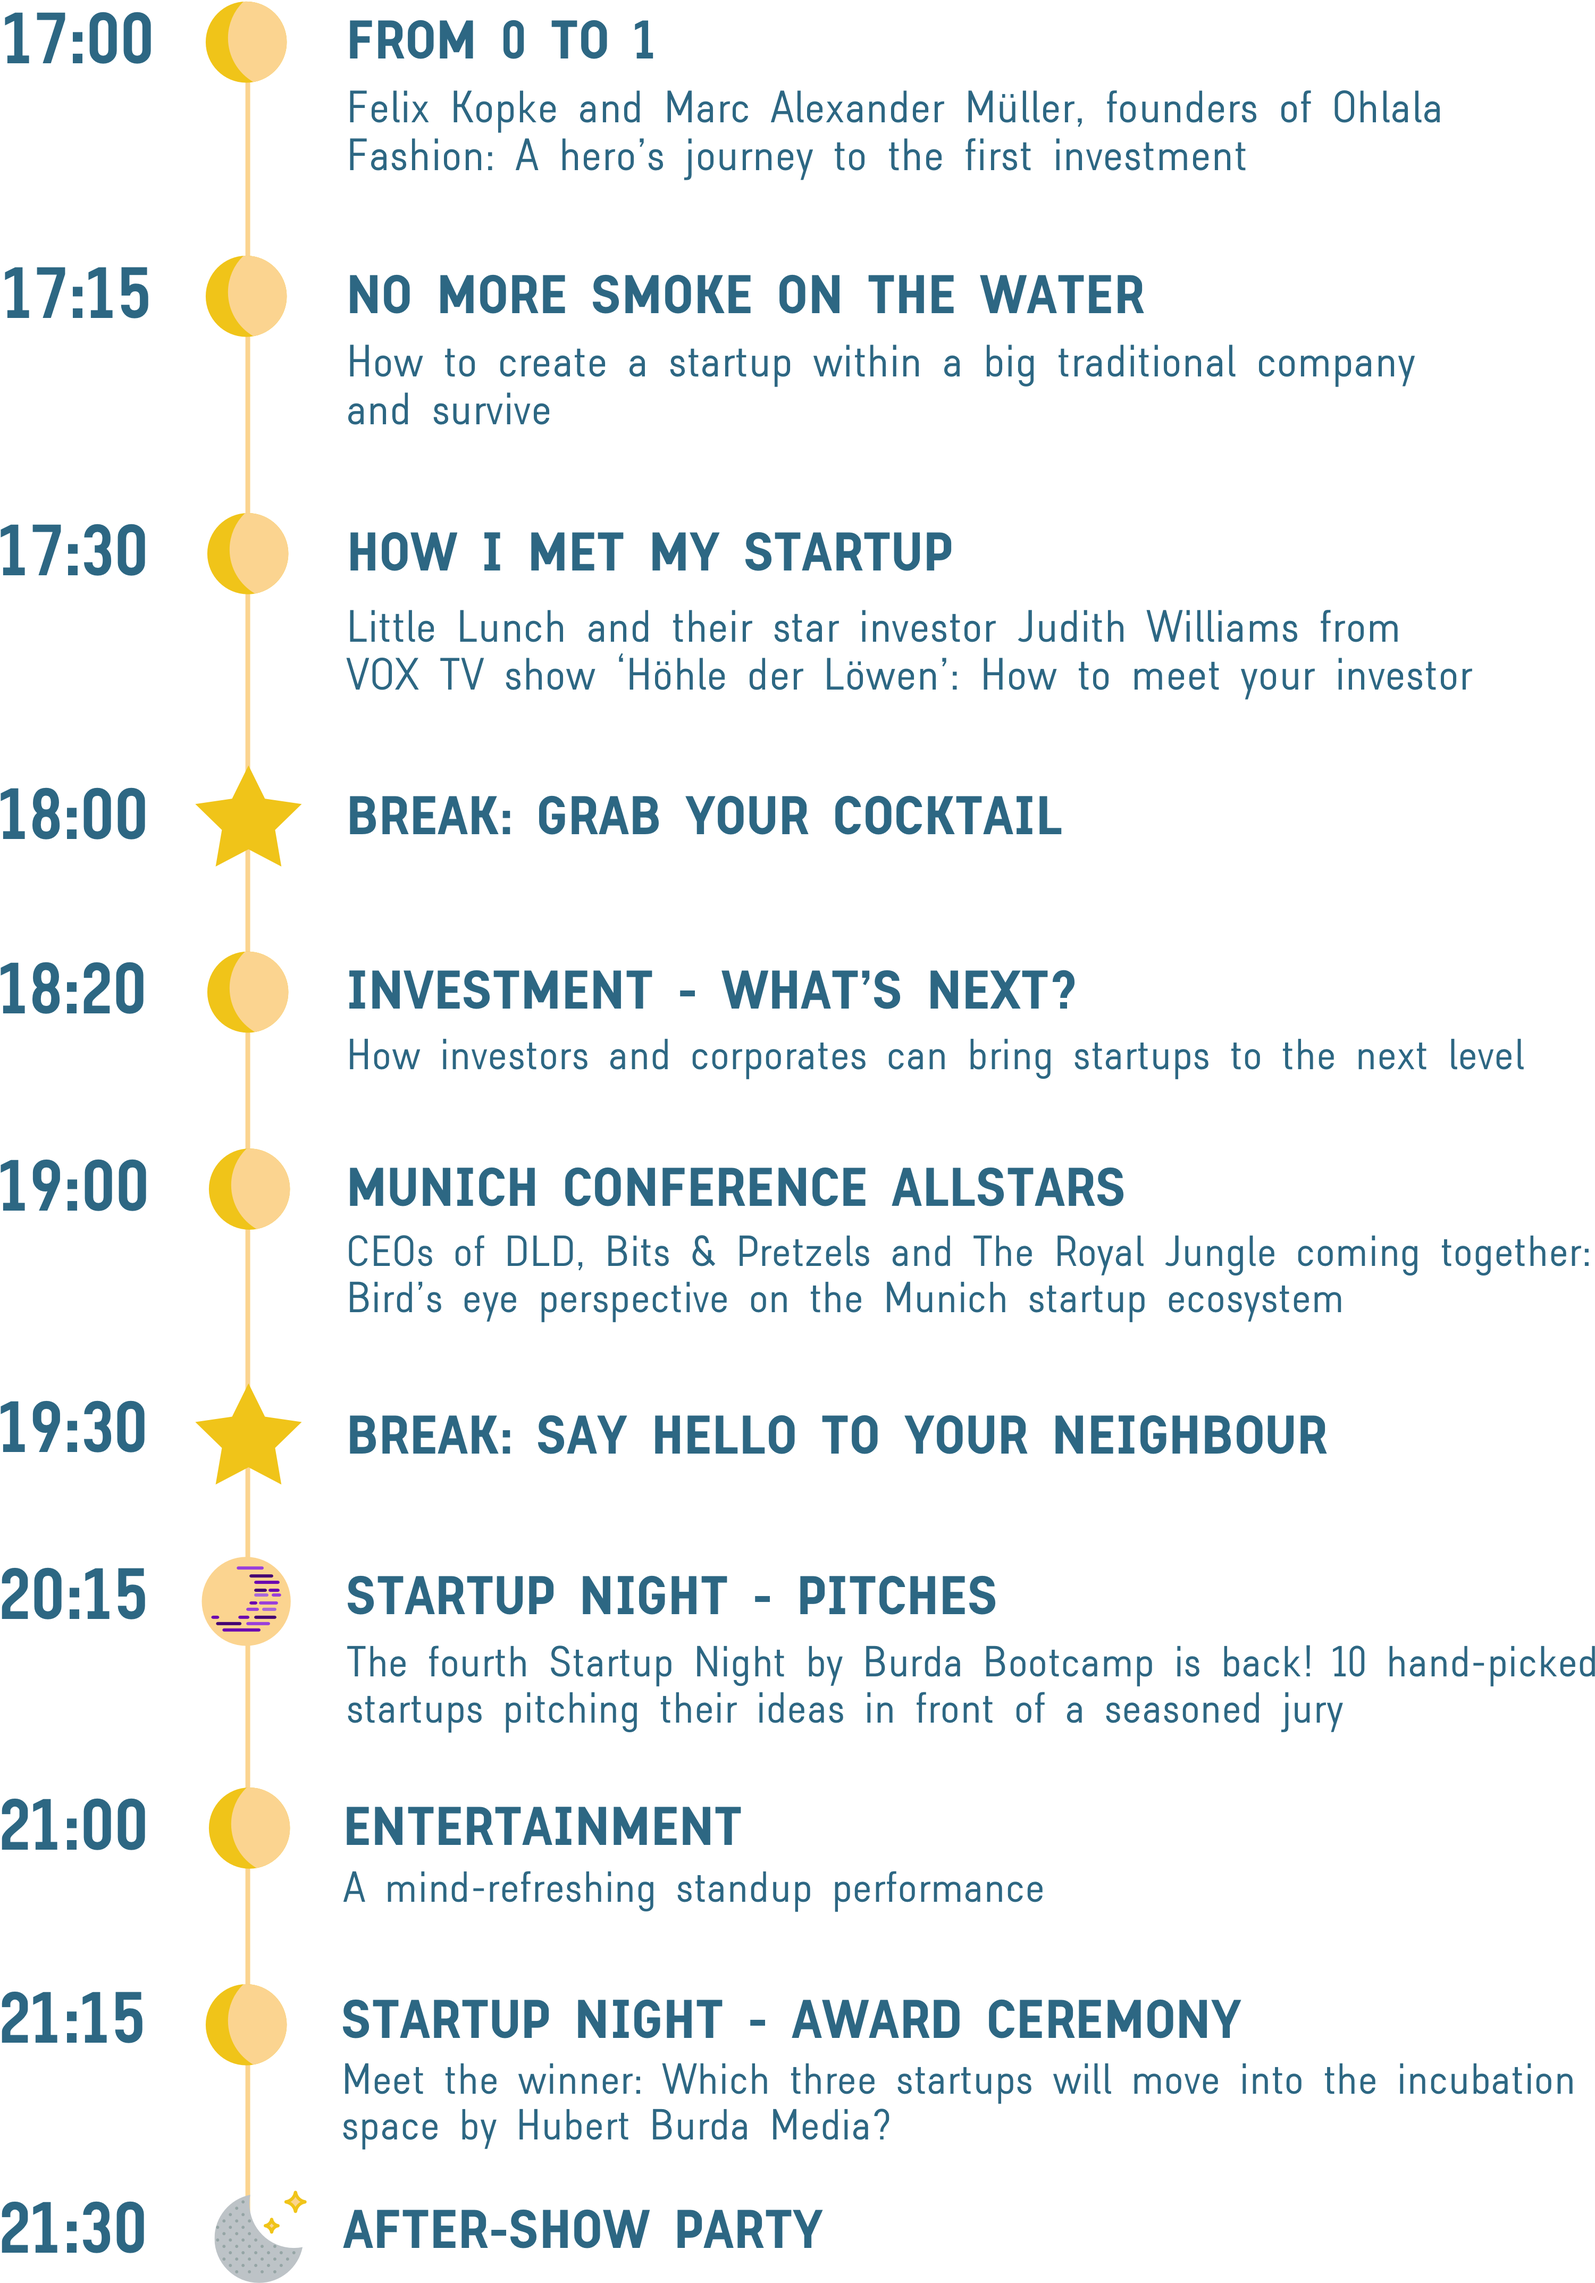
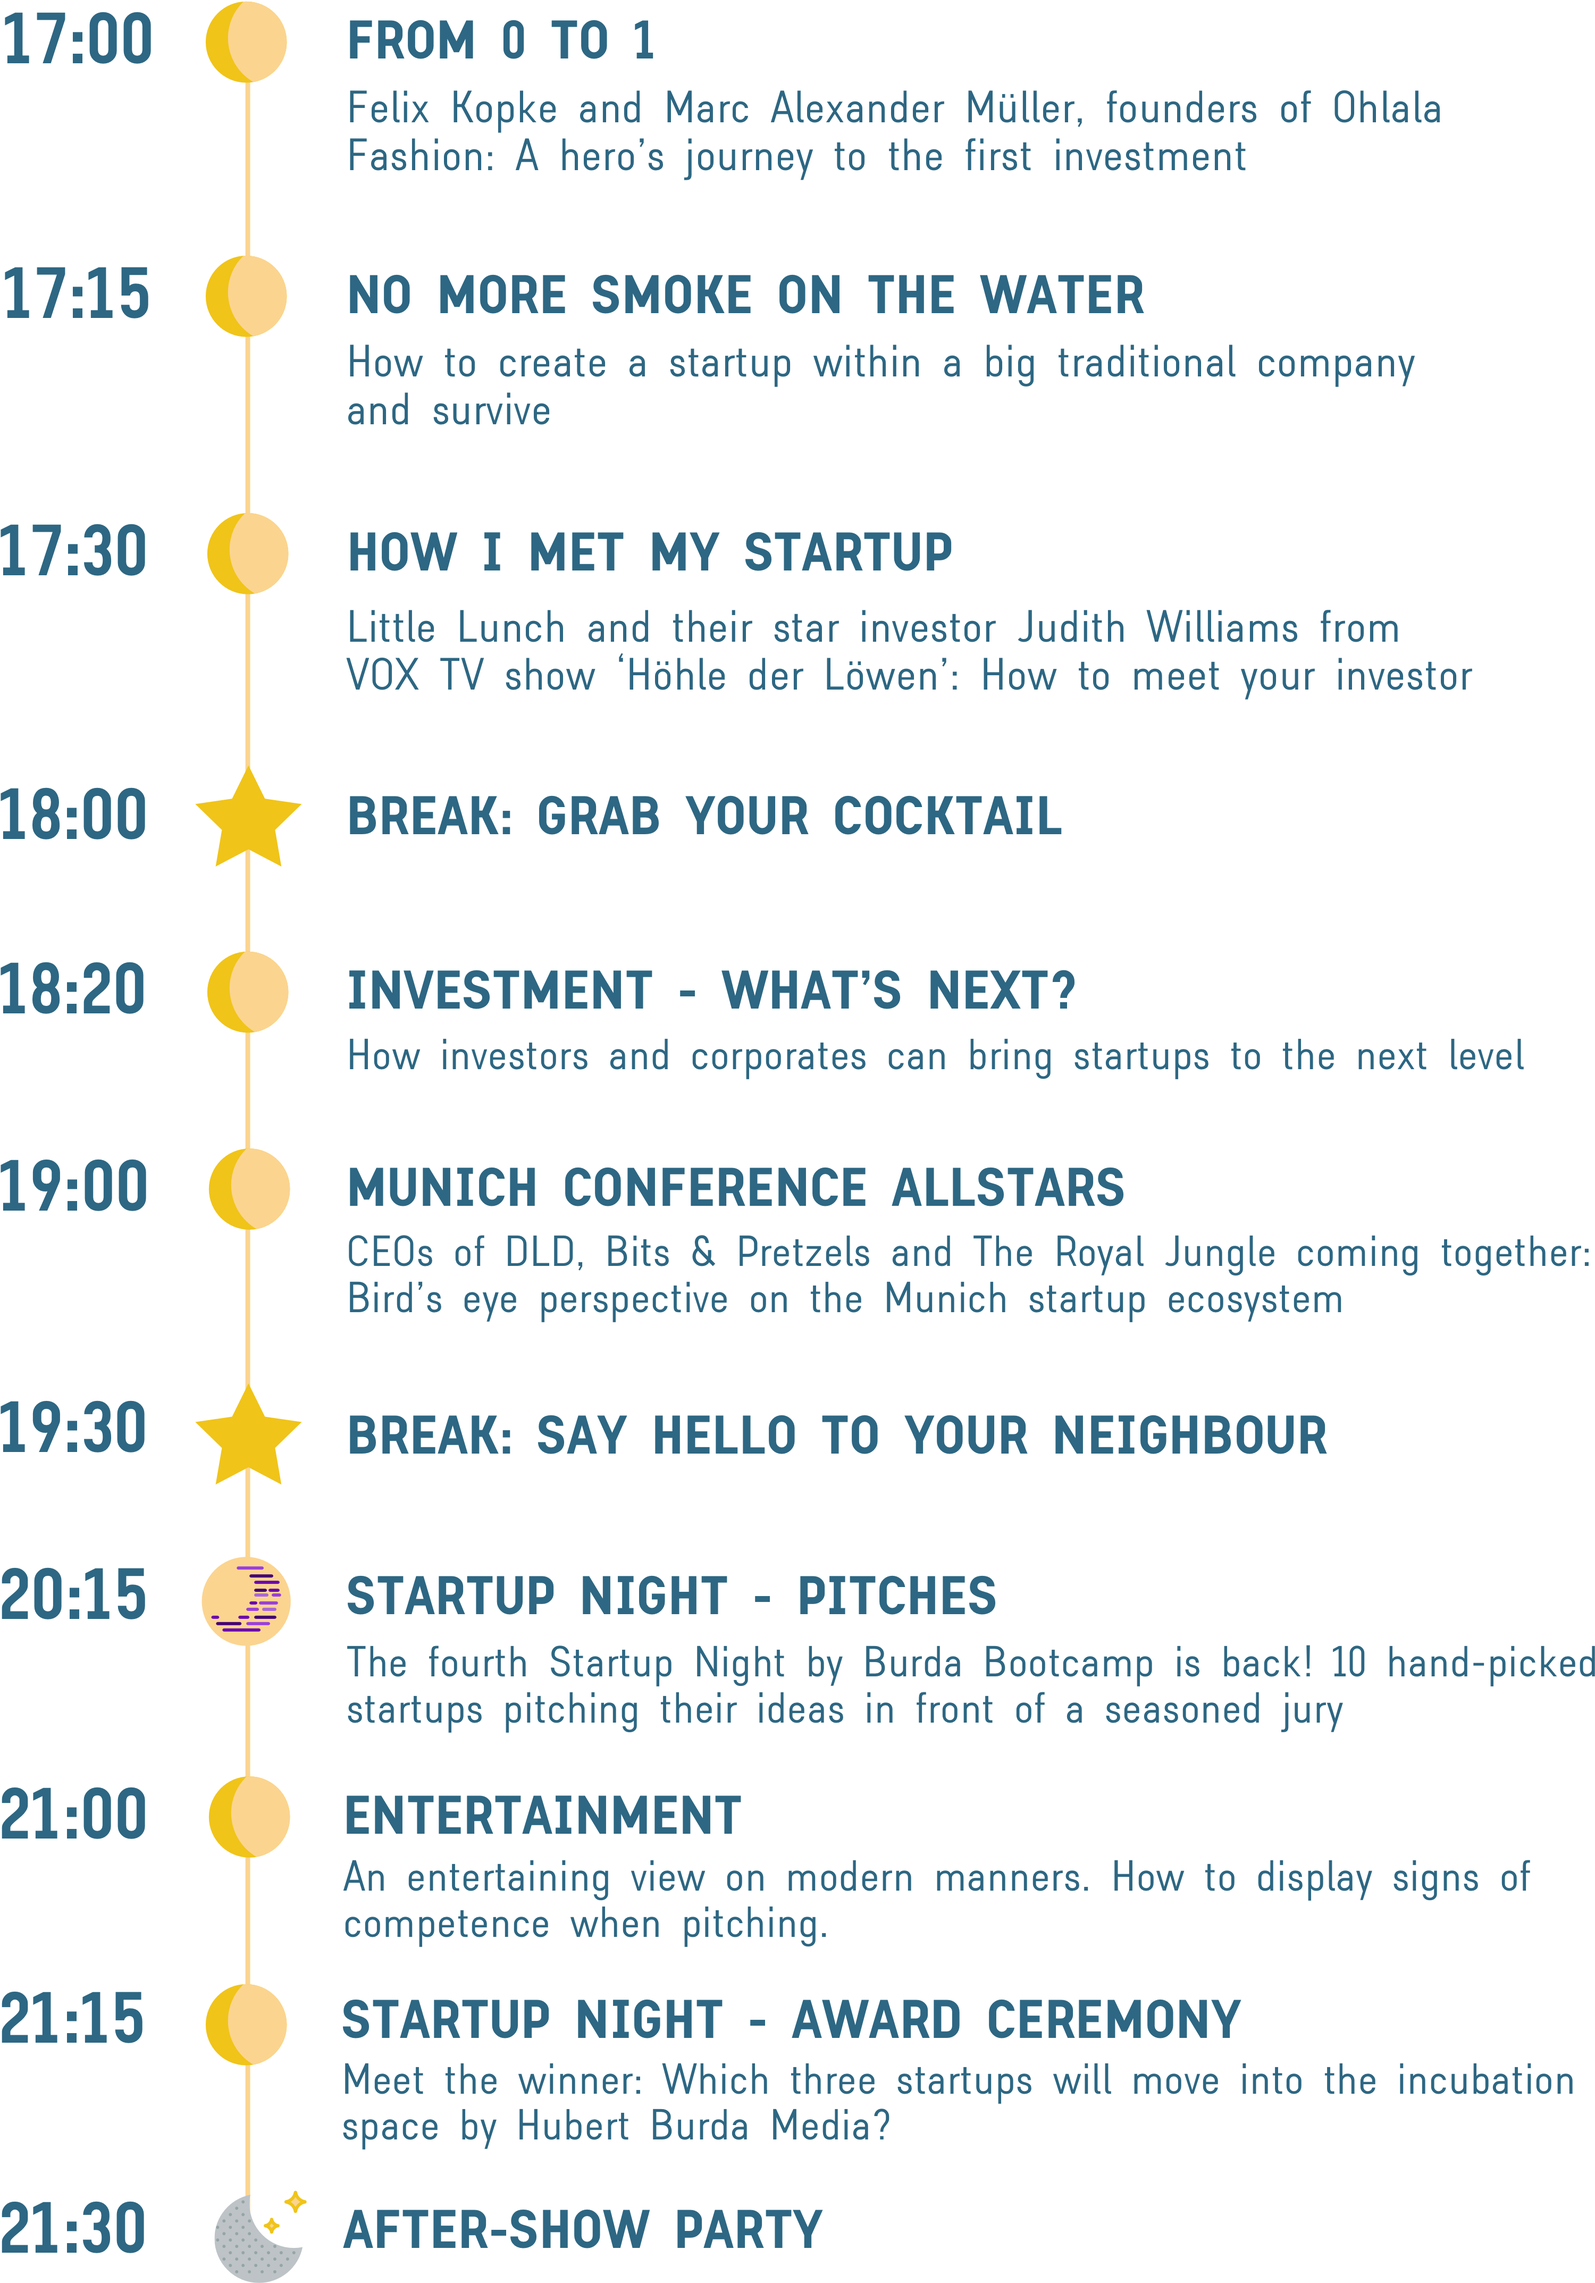
changed text of entertainment and added hoyos

diff --git a/app/index.html b/app/index.html
@@ -187,6 +187,15 @@
              Founder, <a target="_blank" href="https://ohlala-fashion.com/">Ohlala</a>
           </div>
         </div>
+        <div class="col-md-3 speaker-box" style="display:none">
+          <img class="img-circle" src="images/speaker_speaker_icon.svg"/>
+          <div class="name">
+            <a target="_blank" href="https://vonhoyos.de/">Clemens Graf von Hoyos</a>
+          </div>
+          <div class="description">
+             CEO, <a target="_blank" href="https://ohlala-fashion.com/">Knigge Foundation</a>
+          </div>
+        </div>
       </div>
     </div>
   </section>
